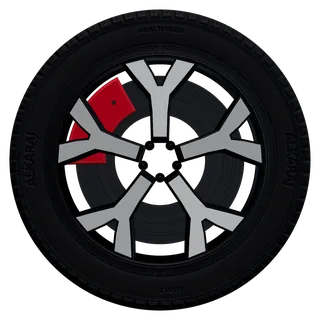
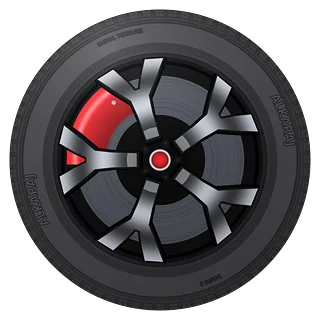
Wheel: the finishing pass (light bands along the machined spokes, a painted caliper, the red cap, a dark well), stills and the hero from the 2048 frames
Claude-Session: https://claude.ai/code/session_01GJA9LqLvcHsRmQeKeLFNUG

diff --git a/scripts/brand/wheel/finish.py b/scripts/brand/wheel/finish.py
@@ -1,0 +1,142 @@
+"""Finish the rendered wheel layers: shade the machined spoke faces, back the brake, and build the stills.
+
+The turning layers are lit symmetrically around the axis, so a flat spoke face comes out one flat grey.
+A real concave diamond-cut face reflects the room in bands along its length; that falloff depends only on the
+distance from the hub, so it can be laid on here without breaking the rotation (the image still looks the same
+at every angle).
+
+usage: python3 scripts/brand/wheel/finish.py WHEEL.png BRAKE.png   (the raw frames from render.py, RAW_DIR)
+writes public/brand/wheel/{wheel-512,wheel-160,brake-512,brake-160,wheel-full-320,hero-960}.webp
+"""
+import os
+import sys
+
+import numpy as np
+from PIL import Image, ImageFilter
+
+HERE = os.path.dirname(os.path.abspath(__file__))
+OUT = os.environ.get('WHEEL_OUT') or os.path.abspath(os.path.join(HERE, '..', '..', '..', 'public', 'brand', 'wheel'))
+
+MARGIN = 0.03  # render.py frames the tyre with a 3% margin
+
+
+def polar(n):
+    y, x = np.mgrid[0:n, 0:n].astype(np.float32)
+    c = (n - 1) / 2
+    R = n / 2 * (1 - 2 * MARGIN)  # the tyre's outer radius in px
+    dx, dy = (x - c) / R, (y - c) / R
+    return np.hypot(dx, dy), dx, dy
+
+
+def shade_wheel(im):
+    """Bands of light along the spokes and a lift on the rubber's raised detail."""
+    a = np.asarray(im, dtype=np.float32) / 255
+    n = a.shape[0]
+    r, _, _ = polar(n)
+    rgb, alpha = a[..., :3], a[..., 3:]
+    lum = rgb.mean(axis=2)
+
+    # the machined faces: bright pixels inside the rim
+    face = np.clip((lum - 0.42) / 0.2, 0, 1) * (r < 0.692)
+    # a concave face seen head on: bright by the lip, a dark run, a bright band, dark into the hub
+    band = 0.60 + 0.34 * np.cos(2 * np.pi * (r - 0.375) / 0.31)
+    band = np.where(r < 0.22, 0.42 + (r / 0.22) * 0.2, band)
+    cool = np.array([0.95, 0.975, 1.02], dtype=np.float32)
+    shaded = rgb * band[..., None] * cool
+    rgb = rgb * (1 - face[..., None]) + shaded * face[..., None]
+
+    # the polished lip keeps one crisp ring of light
+    lip = np.exp(-((r - 0.7) / 0.006) ** 2) * (lum > 0.3)
+    rgb = np.clip(rgb + lip[..., None] * 0.18, 0, 1)
+
+    # rubber: lift the mid-tones so ribs, letters and shoulder blocks read on a dark page
+    tyre = (r > 0.715).astype(np.float32)
+    lifted = np.clip(0.035 + rgb * 1.28, 0, 1) ** 0.92
+    rgb = rgb * (1 - tyre[..., None]) + lifted * tyre[..., None]
+    # the centre cap: the tag's red in a thin alloy ring
+    cap = np.clip((0.058 - r) / 0.004, 0, 1)
+    ring = np.clip((0.074 - r) / 0.004, 0, 1) - cap
+    red = np.array([0.90, 0.15, 0.18], dtype=np.float32) * (1.08 - 0.5 * np.clip(r / 0.058, 0, 1) ** 2)[..., None]
+    alloy = np.array([0.80, 0.82, 0.86], dtype=np.float32)
+    rgb = rgb * (1 - ring[..., None]) + alloy * ring[..., None]
+    rgb = rgb * (1 - cap[..., None]) + red * cap[..., None]
+    alpha = np.maximum(alpha, (cap + ring)[..., None])
+    return Image.fromarray((np.dstack([np.clip(rgb, 0, 1), alpha[..., 0]]) * 255).astype(np.uint8), 'RGBA')
+
+
+def paint_caliper(im):
+    """The caliper is painted and glossy: the tag's red, lighter along its outer edge, a deep red at the disc."""
+    a = np.asarray(im, dtype=np.float32) / 255
+    n = a.shape[0]
+    r, _, _ = polar(n)
+    rgb = a[..., :3]
+    redness = np.clip((rgb[..., 0] - np.maximum(rgb[..., 1], rgb[..., 2]) - 0.12) / 0.2, 0, 1)
+    t = np.clip((r - 0.38) / 0.22, 0, 1)
+    base = np.array([0.898, 0.149, 0.176], dtype=np.float32)
+    paint = base[None, None, :] * (0.62 + 0.5 * t)[..., None]
+    gloss = np.exp(-((r - 0.565) / 0.018) ** 2) * 0.34
+    paint = np.clip(paint + gloss[..., None], 0, 1)
+    rgb = rgb * (1 - redness[..., None]) + paint * redness[..., None]
+    return Image.fromarray((np.dstack([np.clip(rgb, 0, 1), a[..., 3]]) * 255).astype(np.uint8), 'RGBA')
+
+
+def back_brake(im):
+    """Nothing of the page shows through the wheel: the well behind the disc is dark."""
+    n = im.size[0]
+    r, _, _ = polar(n)
+    well = np.zeros((n, n, 4), dtype=np.float32)
+    inside = np.clip((0.66 - r) / 0.004, 0, 1)
+    shade = 0.03 + 0.035 * np.clip(r / 0.66, 0, 1)  # a touch lighter toward the barrel
+    well[..., 0] = shade
+    well[..., 1] = shade
+    well[..., 2] = shade * 1.08
+    well[..., 3] = inside
+    base = Image.fromarray((well * 255).astype(np.uint8), 'RGBA')
+    base.alpha_composite(im)
+    return base
+
+
+def light(n, key=(-0.35, -0.75), strength=0.5):
+    """A fixed studio light for the stills: a soft key from above and a shade below, inside the wheel only."""
+    r, dx, dy = polar(n)
+    kx, ky = key
+    d = np.hypot(dx - kx, dy - ky)
+    hi = np.clip(1 - d / 1.25, 0, 1) ** 2 * strength
+    lo = np.clip((dy * 0.9 - dx * kx) * 0.5 + 0.15, 0, 1) * strength * 0.9
+    inside = np.clip((1.0 - r) / 0.01, 0, 1)
+    return hi * inside, lo * inside
+
+
+def still(wheel, brake, turn=18.0, strength=0.5):
+    n = wheel.size[0]
+    comp = brake.copy()
+    comp.alpha_composite(wheel.rotate(turn, resample=Image.BICUBIC))
+    a = np.asarray(comp, dtype=np.float32) / 255
+    hi, lo = light(n, strength=strength)
+    rgb = a[..., :3]
+    rgb = rgb + (1 - rgb) * hi[..., None] * (0.25 + 0.75 * rgb)  # screen, weighted so black rubber stays black
+    rgb = rgb * (1 - lo[..., None] * 0.75)
+    return Image.fromarray((np.dstack([np.clip(rgb, 0, 1), a[..., 3]]) * 255).astype(np.uint8), 'RGBA')
+
+
+def save(im, name, size, q=84):
+    out = im.resize((size, size), Image.LANCZOS)
+    if size <= 320:
+        out = out.filter(ImageFilter.UnsharpMask(radius=0.6, percent=60, threshold=2))
+    out.save(os.path.join(OUT, name), 'WEBP', quality=q, method=6, alpha_quality=92)
+    print(name, os.path.getsize(os.path.join(OUT, name)))
+
+
+def main(wheel_path, brake_path):
+    wheel = shade_wheel(Image.open(wheel_path).convert('RGBA'))
+    brake = back_brake(paint_caliper(Image.open(brake_path).convert('RGBA')))
+    save(wheel, 'wheel-512.webp', 512)
+    save(wheel, 'wheel-160.webp', 160)
+    save(brake, 'brake-512.webp', 512)
+    save(brake, 'brake-160.webp', 160)
+    save(still(wheel, brake), 'wheel-full-320.webp', 320)
+    save(still(wheel, brake, turn=-12.0, strength=0.62), 'hero-960.webp', 960, q=82)
+
+
+if __name__ == '__main__':
+    main(sys.argv[1], sys.argv[2])
